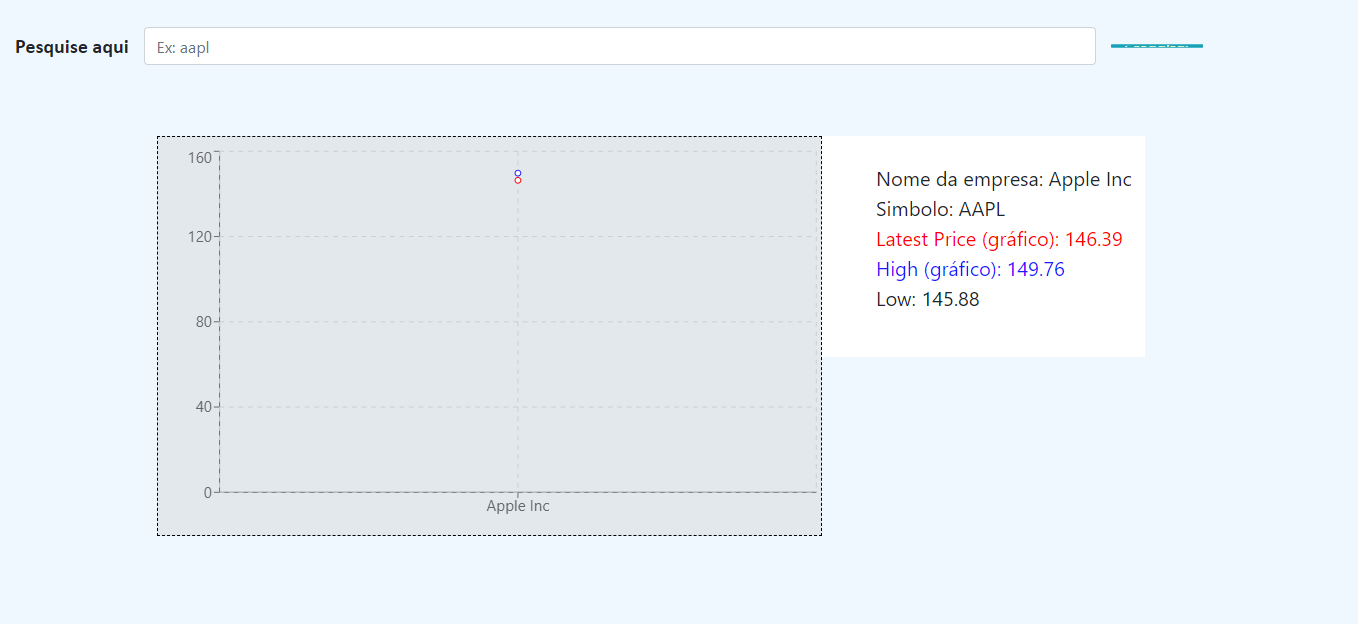
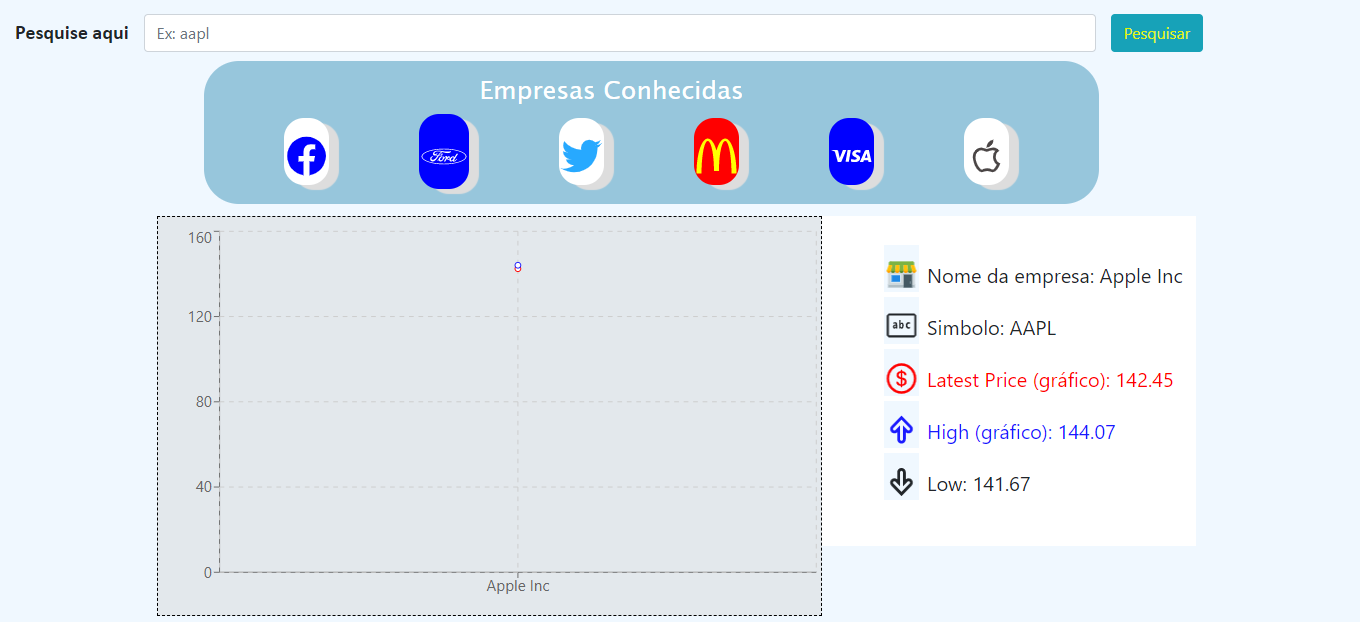
trocando a fotos

diff --git a/app/public/style.css b/app/public/style.css
@@ -63,10 +63,11 @@ body{
 
 .container-exemplo {
     background-color: rgba(7, 118, 165, 0.384);
-    padding: 15px 30px 15px 0;
-    width: 70%;
-    margin-left: 12%;
+    padding: 15px 80px 15px 0;
+    margin-left: 15%;
+    display: inline-block;
     transform: translateY(-12px);
+    border-radius: 35px;
 }
 
 .div-exemplo {
